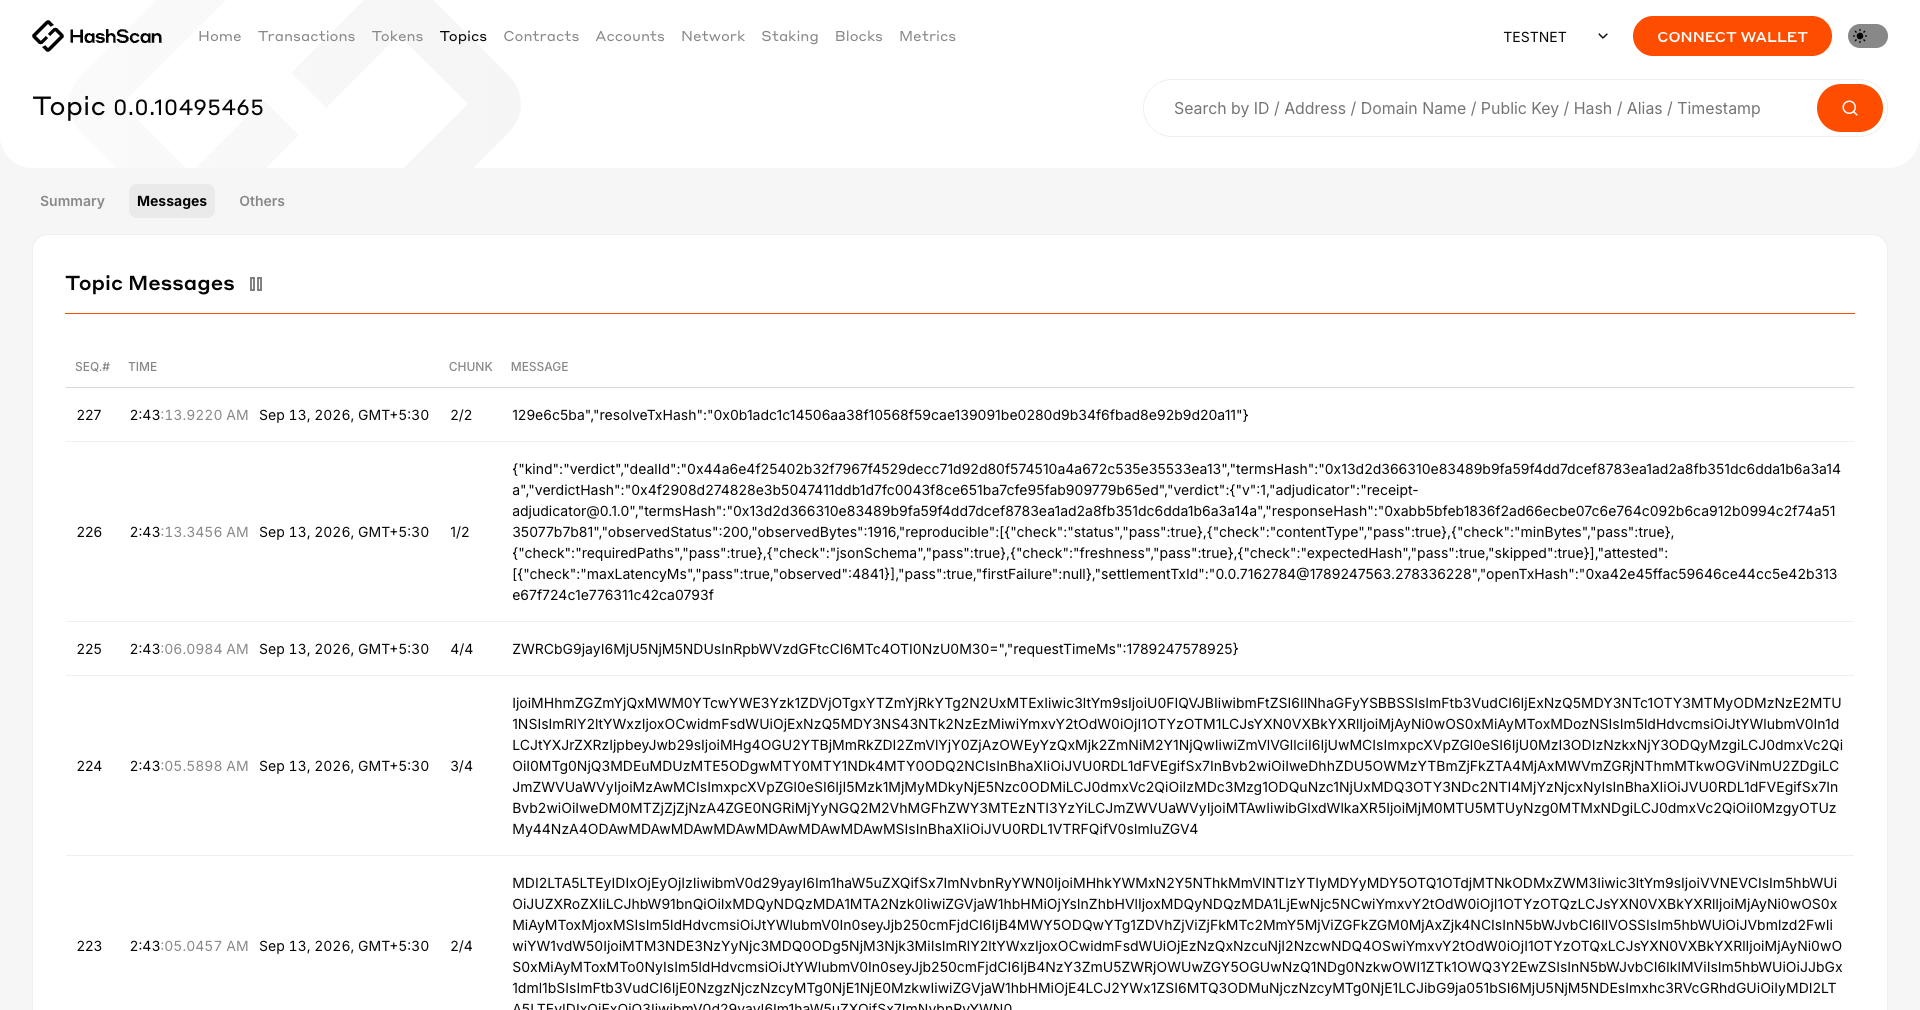
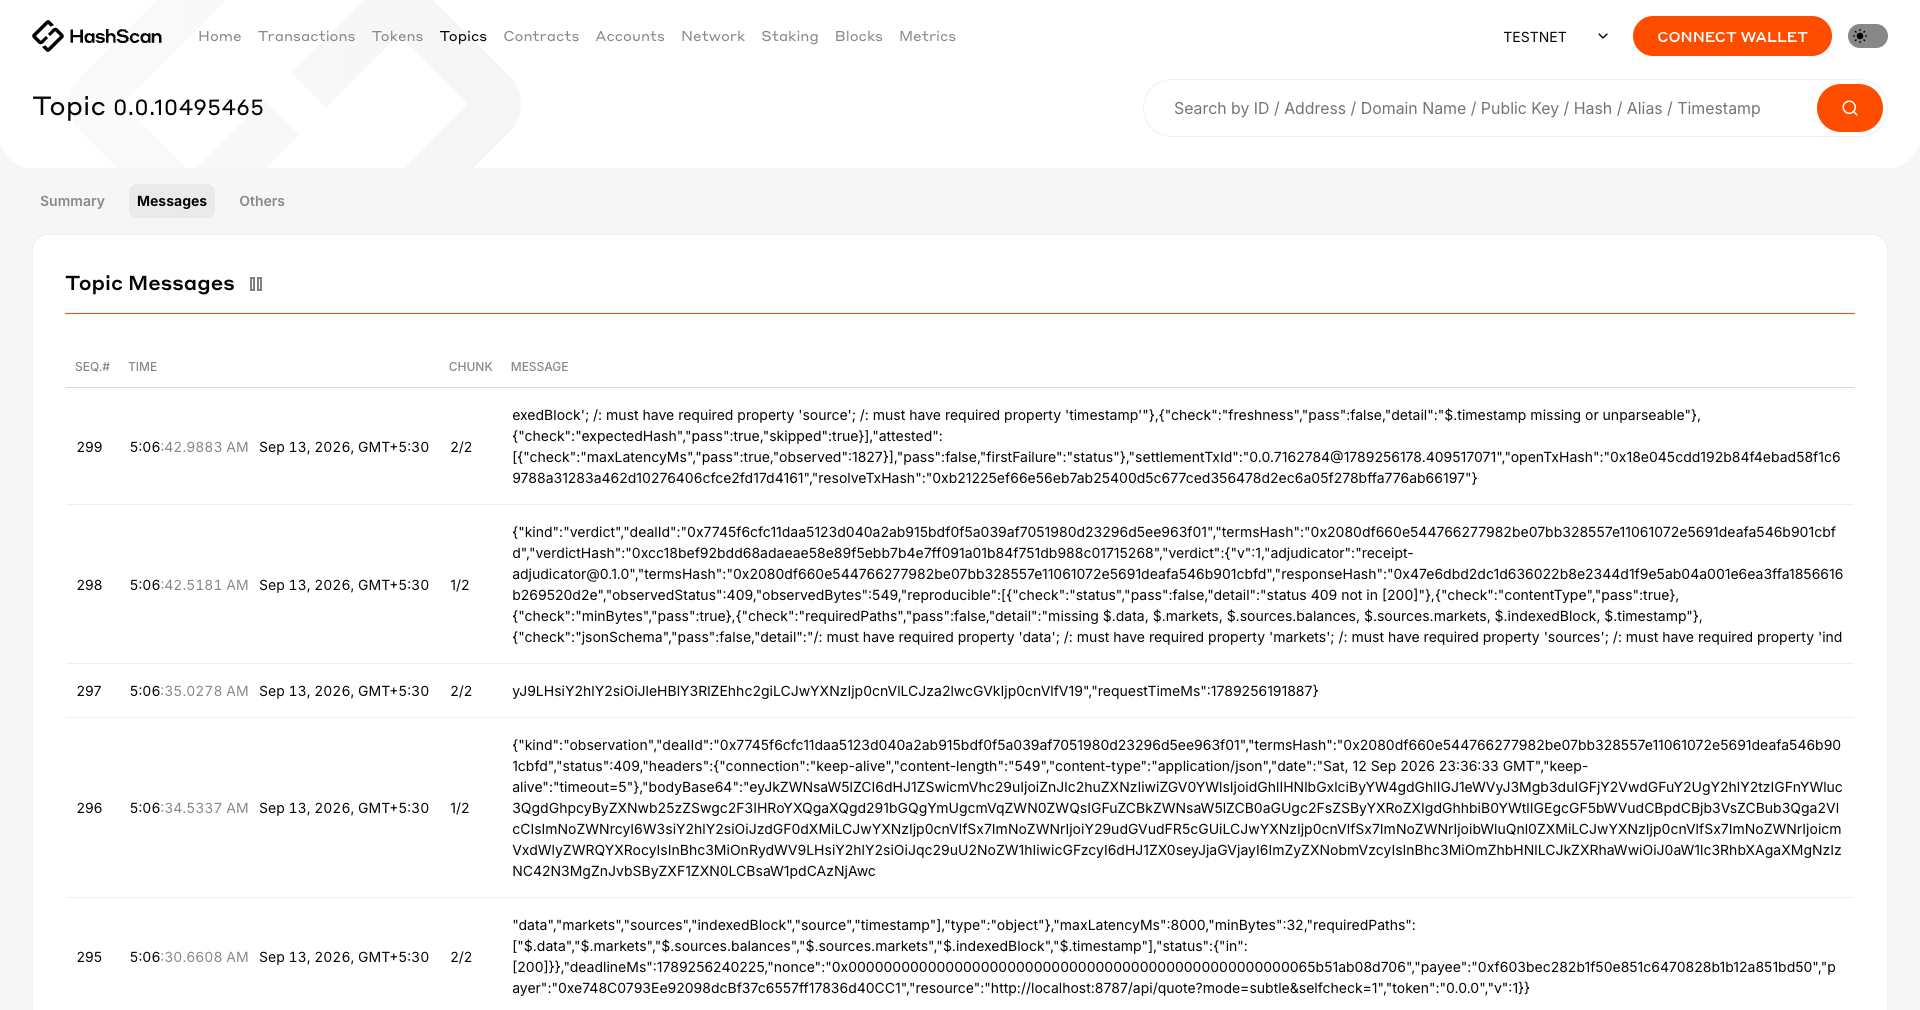
Remove the "What is not done" section from the README
Drops the section, its entry in the Contents list, and the two docs tests
that asserted it was present.

The test that asserts latency is disclosed as attested rather than proven
stays. That claim lives in "Why you do not have to trust our adjudicator",
not in the removed section, so the README still states plainly that
observedLatencyMs is our own stopwatch and gates nothing.

Suite is 305 passing, down two only because those two tests were the ones
checking for the removed text.

diff --git a/packages/core/test/docs.test.ts b/packages/core/test/docs.test.ts
@@ -65,15 +65,7 @@ describe('README commands exist', () => {
   })
 })
 
-describe('honesty section is present', () => {
-  test('the README states what is not done', () => {
-    expect(readme).toMatch(/## What is not done, honestly/)
-  })
-
-  test('it discloses the one-hop custody rather than burying it', () => {
-    expect(readme.toLowerCase()).toMatch(/custodies for one hop/)
-  })
-
+describe('the README does not overclaim', () => {
   test('it discloses that latency is attested rather than proven', () => {
     expect(readme).toMatch(/observedLatencyMs/)
     expect(readme.toLowerCase()).toMatch(/cannot recompute|cannot prove|own stopwatch/)

diff --git a/README.md b/README.md
@@ -36,7 +36,6 @@ check the result against the hash recorded on chain.
 - [Sponsor integrations, in detail](#sponsor-integrations-in-detail)
 - [Run it yourself](#run-it-yourself)
 - [Repository map](#repository-map)
-- [What is not done, honestly](#what-is-not-done-honestly)
 - [Further reading](#further-reading)
 
 ---
@@ -547,24 +546,6 @@ surfacing as an unexplained `BadSignature` during a live paid request.
 | [`demo`](demo) | The film, and the tooling that renders it without recording a screen |
 | [`recipes`](recipes) | The two published Bazantic Recipes |
 | [`scripts`](scripts) | `pnpm serve` keeps the local stack up in the right order, `pnpm health` says whether it is |
-
----
-
-## What is not done, honestly
-
-**The facilitator custodies for one hop.** x402 on Hedera settles a native transfer to an account; the escrow is an EVM contract. Those are two address spaces and they do not compose, so the payment lands in the facilitator's account and the facilitator funds `open()` in the same request handler. Both legs, the Hedera settlement transaction id and the EVM `open()` hash, are published to HCS, so the window is publicly measurable. The mitigation is that `open()` verifies the buyer's EIP-712 signature on chain: the facilitator cannot open a deal the buyer did not sign, and cannot alter the amount, payee, deadline or terms on the way through. Tests `test_open_revertsWhenFacilitatorInflatesTheAmount` and `..._redirectsThePayee` cover exactly that. Everything after `open()` is trustless.
-
-**Response bodies are public.** The topic carries the raw body, which is what makes verification real and is also wrong for a business selling data. The right answer is to evaluate inside a confidential enclave and publish only the verdict. That is not built.
-
-**Bodies are capped at 4 KB.** Above the cap the facilitator records `bodyTooLarge` and refuses rather than truncating: a truncated body produces a verdict nobody can reproduce, which is worse than a failure. Production would put the body in a content-addressed store and publish the CID.
-
-**A hung seller is not auto-refunded.** With no response there is nothing to judge, so the facilitator publishes no verdict rather than inventing one nobody could reproduce. The deadline is the remedy and `claimExpired` is permissionless. This is a deliberate choice, not an omission, but it does mean the buyer waits for the deadline instead of being refunded immediately.
-
-**The Bazantic gateway points at a tunnel.** The gateway and recipe are live, but the upstream is an ngrok tunnel to a facilitator running on a laptop, so the gateway works only while that tunnel does. A real deployment would put the facilitator on a stable host. Nothing about the integration is mocked, the tooling is simply pointed at a development machine.
-
-**The dashboard is a prop.** It is a single static file served by the facilitator at `/`, with no build step and no third-party scripts. It reads deployment identifiers from `/health` and deal state from `/stream`, so it needs no configuration, but it is read-only, keeps state in memory, and is not something to point at production.
-
-**Testnet only.** Nothing here has been audited, and `ReceiptEscrow` holds real funds only in the sense that testnet HBAR is real.
 
 ---
 
